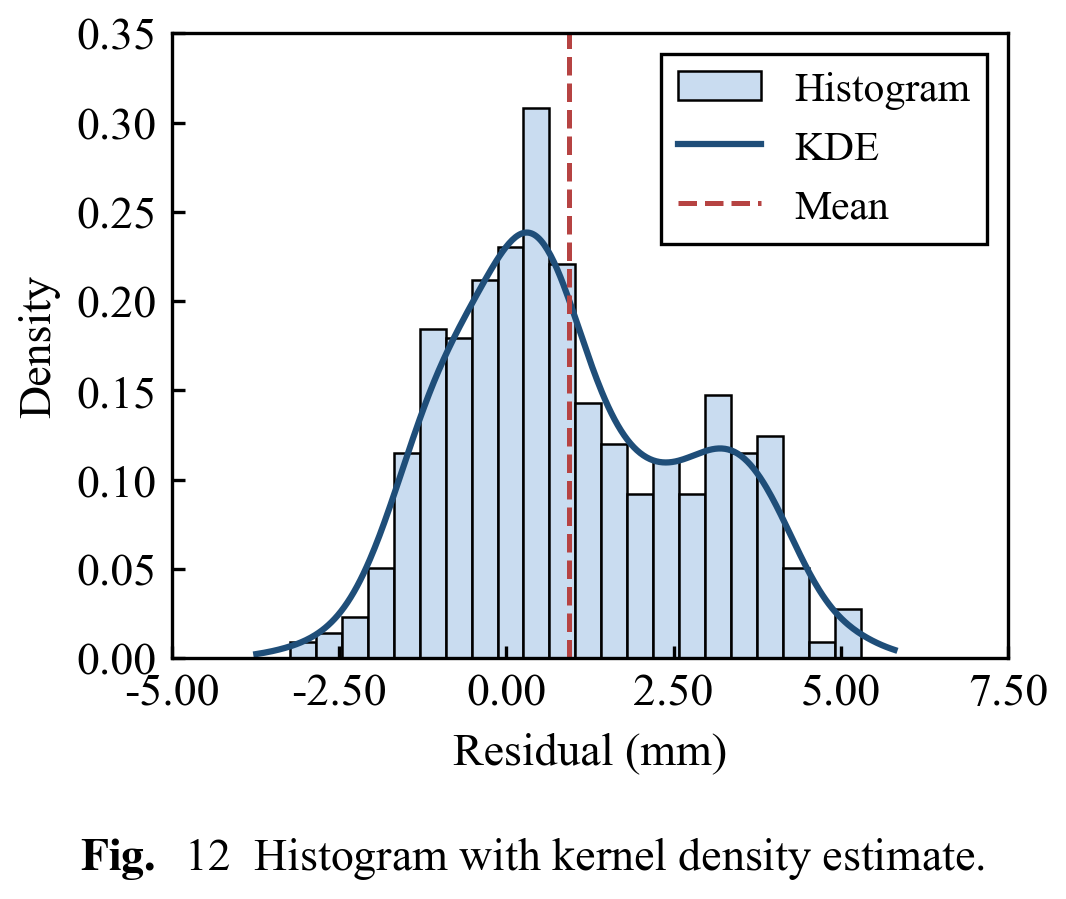
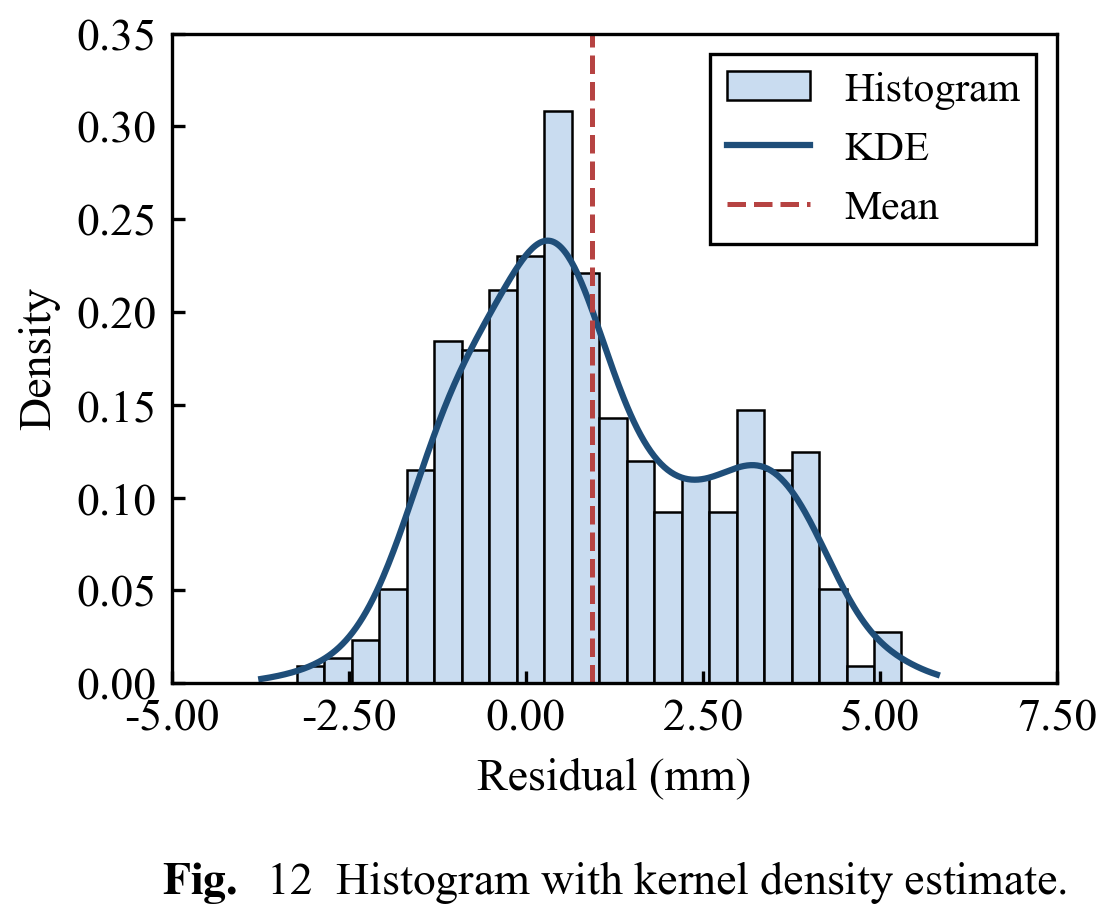
One fixed 75x55 mm black frame for every single-column figure
Replace the uniform overall-size fit with _standardize_axes_box: single-column
output now puts every rectilinear Cartesian axes on the shared
WXL_AXES_SINGLE_MM = (75 x 55 mm) box, centred, so the black frame is identical
in every figure and never adapts to the tick labels. Colorbars are tucked
against their host (read from the colorbar mappable, so contourf works), and
imshow axes get aspect='auto' so the box is honoured.

Because the box is fixed, the saved width now follows the tick labels (87-102 mm
instead of a pinned 90 mm); the user accepted widths above 90 mm, and the
gallery/column-gallery width checks no longer pin the single-column variant.
Verified: all rectilinear single-column figures measure exactly 75.0 x 55.0 mm
and keep their legend inside the box (radar/donut keep the conventional legend
outside the circle, still inside the figure). Audit passes for all 21 types.

Changed region(s): [[0.0, 0.0, 0.9906, 0.8721], [0.0619, 0.9344, 0.9597, 0.9967]]

diff --git a/assets/wxl_style.py b/assets/wxl_style.py
@@ -973,6 +973,11 @@ def measure_width_mm(path, dpi: int | None = None) -> float:
 #: every subplot is the same size as a single-column figure.
 WXL_AXES_PANEL_MM = (75.0, 55.0)
 
+#: one shared black frame for every single-column figure (width x height, mm).
+#: The box is fixed, so it does not grow or shrink with the tick labels; the
+#: figure width then follows the labels and may exceed the 90 mm column.
+WXL_AXES_SINGLE_MM = (75.0, 55.0)
+
 #: overall (trimmed) size of a single-column figure in millimetres, so every
 #: single-column figure is the same size on the page. Figures that carry a
 #: colorbar are exempt: a slim bar plus its tick labels and title cannot fit the
@@ -1028,6 +1033,52 @@ def _png_height_mm(path, dpi: int) -> float:
         import matplotlib.image as mpimg
         px = mpimg.imread(str(path)).shape[0]
     return px / dpi * 25.4
+
+
+def _standardize_axes_box(fig, w_mm: float, h_mm: float) -> int:
+    """Force every rectilinear Cartesian axes onto one fixed physical box.
+
+    The box is the same for every figure, so it never grows or shrinks with the
+    tick labels or the legend. Axes are centred horizontally; polar axes, pies
+    and colorbar axes are skipped, and each colorbar is tucked against its host
+    (read from the colorbar's mappable, which works for ``contourf`` too).
+    Returns the number of axes resized.
+    """
+    fw, fh = (float(v) for v in fig.get_size_inches())
+    W, H = fw * 25.4, fh * 25.4
+    targets = [a for a in fig.get_axes()
+               if a.axison and not _is_polar(a) and not hasattr(a, "_colorbar")]
+    if not targets:
+        return 0
+    wf = w_mm / W
+    hf = h_mm / H
+    if wf >= 1.0 or hf >= 1.0:
+        return 0
+    x0 = (1.0 - wf) / 2.0
+    y0 = 0.07
+    for a in targets:
+        # an imshow axes would otherwise override the box with its own aspect
+        try:
+            a.set_aspect("auto")
+        except Exception:                              # pragma: no cover
+            pass
+        a.set_position([x0, y0, wf, hf])
+    for a in fig.get_axes():
+        cb = getattr(a, "_colorbar", None)
+        if cb is None:
+            continue
+        host = getattr(getattr(cb, "mappable", None), "axes", None)
+        if host is None or host not in targets:
+            continue
+        hp = host.get_position()
+        a.set_position([hp.x1 + 0.008 * hp.width, hp.y0,
+                        0.035 * hp.width, hp.height])
+        try:
+            cb.set_label(cb.ax.get_ylabel(), labelpad=2)
+        except Exception:                              # pragma: no cover
+            pass
+    fig._wxl_no_tight = True
+    return len(targets)
 
 
 def _resize_grid_panels(fig, w_mm: float, h_mm: float) -> int:
@@ -1219,24 +1270,15 @@ def finalize_figure(fig, out_path, formats=None, dpi: int | None = None,
                 _prepare()
                 _relayout()
 
-    # every single-column figure gets the same overall (trimmed) size, so a set
-    # of them reads as one consistent size on the page. Figures that carry a
-    # colorbar (the bar plus its labels cannot fit the column) and the
-    # polar/pie figures (a circle cannot fill a 90 x 76 box) are exempt.
-    _all_axes = fig.get_axes()
-    _uniform_ok = (target_width_mm == 90.0
-                   and not getattr(fig, "_wxl_skip_std_axes", False)
-                   and not getattr(fig, "_wxl_skip_uniform_size", False)
-                   and not any(hasattr(a, "_colorbar") for a in _all_axes)
-                   and not any(_is_polar(a) for a in _all_axes)
-                   and any(a.axison and not hasattr(a, "_colorbar")
-                           for a in _all_axes))
-    if _uniform_ok:
-        probe_h = stem.with_suffix(".probe_h.png")
-        if _fit_trimmed_height(fig, WXL_SIZE_SINGLE_MM[1], probe_h, dpi, pad=pad,
-                               caption_max_mm=target_width_mm):
+    # every single-column figure shares one fixed black frame, so the axes box is
+    # the same size in all of them and never adapts to the tick labels; the
+    # figure width then follows the labels and may exceed the 90 mm column
+    if (target_width_mm == 90.0
+            and not getattr(fig, "_wxl_skip_std_axes", False)
+            and not getattr(fig, "_wxl_skip_uniform_size", False)):
+        if _standardize_axes_box(fig, *WXL_AXES_SINGLE_MM):
+            _prepare()
             _relayout()
-        probe_h.unlink(missing_ok=True)
 
     # The caption must keep its 14 pt gap after the last layout pass: the
     # tight_layout in _relayout() (and any later axes move) shifts the grid

diff --git a/examples/gallery.py b/examples/gallery.py
@@ -79,6 +79,7 @@ def fig_grouped_bar():
         annotate_bars(ax, bars, y_offset_frac=0.035)   # skipped when too wide
     ax.set_xticks(x)
     ax.set_xticklabels(cats)
+    ax.set_xlabel("Scenario")
     ax.set_ylabel("Accuracy")
     ax.set_ylim(0, 1.55)
     framed_legend(ax, loc="upper left")
@@ -105,6 +106,7 @@ def fig_stacked_bar():
         bottom += v
     ax.set_xticks(x)
     ax.set_xticklabels(cats)
+    ax.set_xlabel("Year")
     ax.set_ylabel("Mass fraction (%)")
     # raise the upper y-limit so a vertical legend fits in the headroom above
     # the bars (the stack tops out at 100)
@@ -510,14 +512,14 @@ def fig_donut():
 def fig_dual_axis():
     fig, (ax,) = create_subplots(figsize=WXL_FIGSIZE["double"])
     x = np.arange(6)
-    labels = ["0 h", "2 h", "4 h", "6 h", "8 h", "10 h"]
     load = np.array([12, 26, 41, 55, 68, 74], float)
     temp = np.array([22, 35, 52, 68, 79, 84], float)
     ax.bar(x, load, 0.5, color=P["light"], edgecolor="black", linewidth=0.8,
            label="Load")
     ax.set_ylabel("Load (kN)")
     ax.set_xticks(x)
-    ax.set_xticklabels(labels)
+    ax.set_xticklabels(["0", "2", "4", "6", "8", "10"])
+    ax.set_xlabel("Time (h)")
     ax.set_ylim(0, 95)
     ax2 = ax.twinx()
     ax2.plot(x, temp, "-o", color=P["contrast"], lw=1.5, ms=4, mfc="white",
@@ -815,7 +817,10 @@ def build(outdir: Path):
         report["width_mm"] = round(width_mm, 2)
         report["target_mm"] = target
         report["preset"] = "double" if spec["id"] in COMPOSITE else "single"
-        if abs(width_mm - report["target_mm"]) > 0.6:
+        # a single-column figure shares one fixed black frame, so its width
+        # follows the tick labels; only the composite layout is width-checked
+        if (spec["id"] in COMPOSITE
+                and abs(width_mm - report["target_mm"]) > 0.6):
             report["problems"].append(
                 f"saved width {width_mm:.2f} mm misses target "
                 f"{report['target_mm']:.0f} mm")

diff --git a/examples/column_gallery.py b/examples/column_gallery.py
@@ -70,9 +70,13 @@ RECOMMEND = {
 
 def render_variant(spec, preset, outdir: Path, reuse: bool = False):
     png = outdir / f'{spec["id"]}_{preset}.png'
+    # A single-column figure shares one fixed black frame (WXL_AXES_SINGLE_MM), so
+    # its saved width follows the tick labels and is not pinned to 90 mm; only
+    # the style audit has to pass. The double variant has no fixed box, so it is
+    # still checked against the exact print width.
     if reuse and png.exists():
         mm = measure_width_mm(png, DPI)
-        ok = abs(mm - WXL_WIDTH_MM[preset]) <= 0.6
+        ok = True if preset == "single" else abs(mm - WXL_WIDTH_MM[preset]) <= 0.6
         report = {"ok": ok, "sizes": ["reused"], "warnings": [], "problems": []}
         return png, mm, report, ok
     apply_wxl_style()
@@ -94,7 +98,10 @@ def render_variant(spec, preset, outdir: Path, reuse: bool = False):
                     target_width_mm=WXL_WIDTH_MM[preset])
     plt.close(fig)
     mm = measure_width_mm(png, DPI)
-    ok = report["ok"] and abs(mm - WXL_WIDTH_MM[preset]) <= 0.6
+    if preset == "single":
+        ok = report["ok"]
+    else:
+        ok = report["ok"] and abs(mm - WXL_WIDTH_MM[preset]) <= 0.6
     return png, mm, report, ok
 
 
